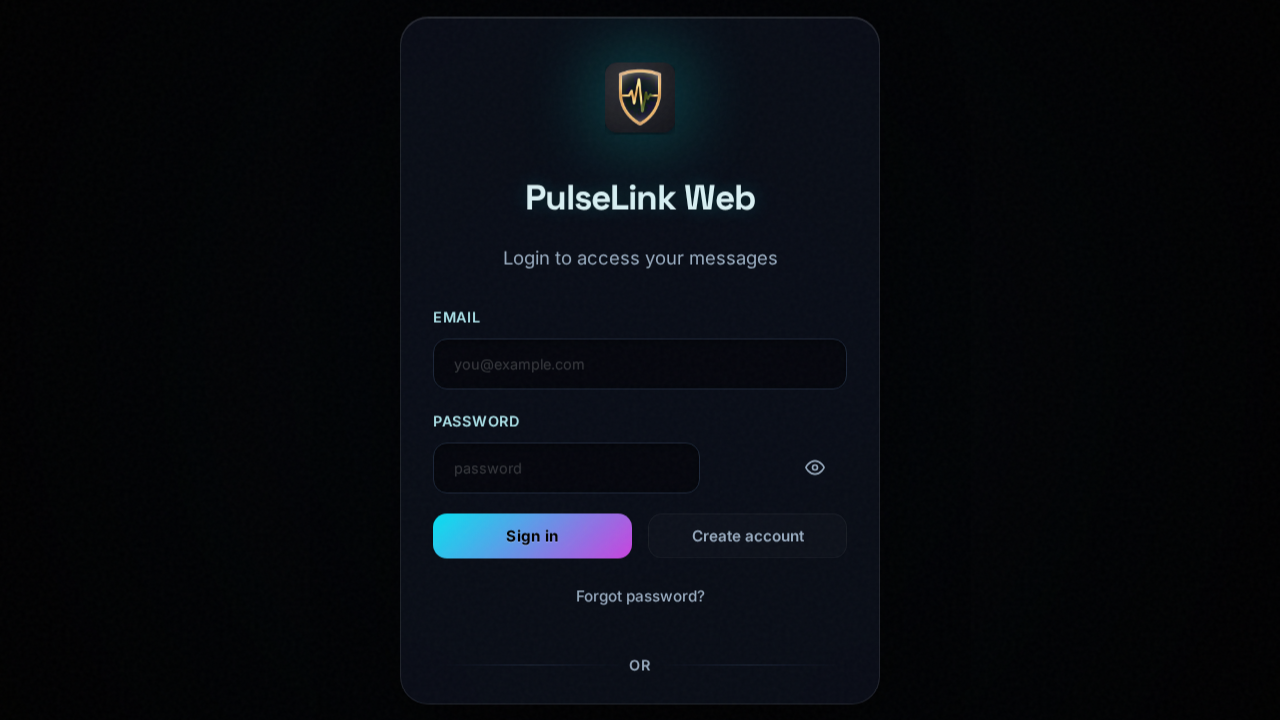
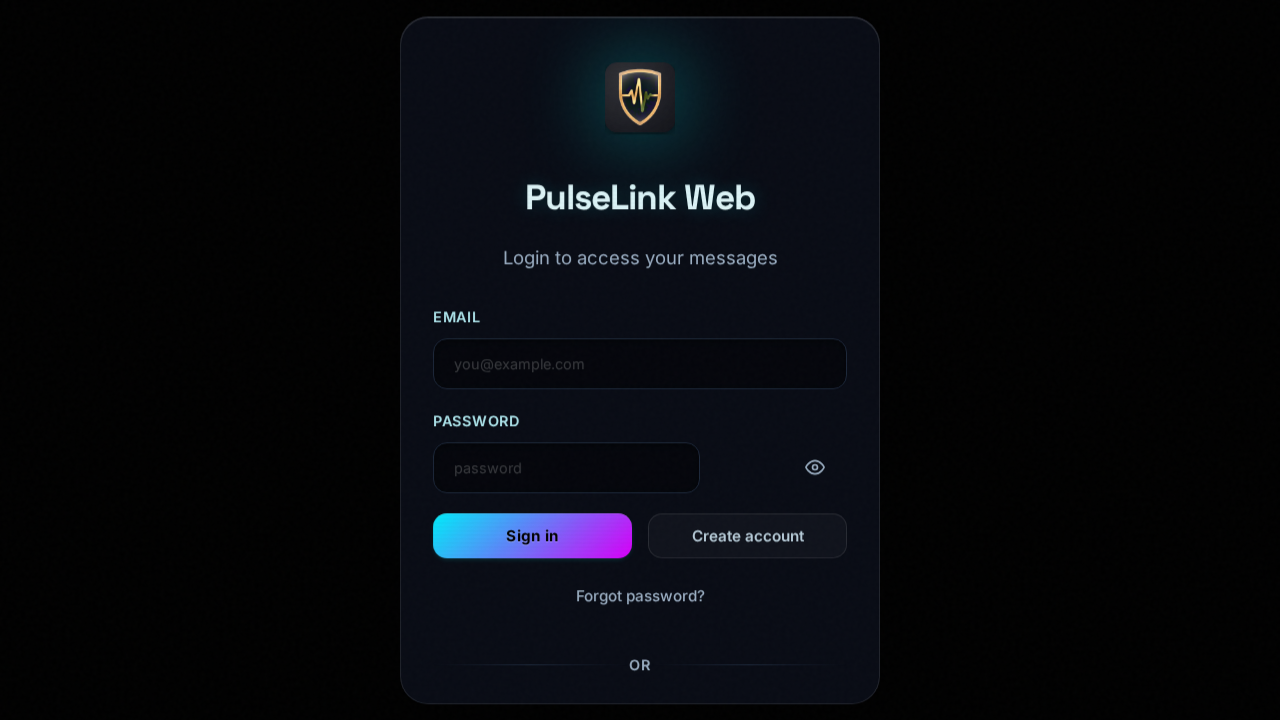
feat: implement Future Deep V11 UI refresh

Changed region(s): [[0.375, 0.7028, 0.5, 0.7944], [0.5625, 0.7333, 0.625, 0.7639]]

diff --git a/web/tests/full_verification.spec.js b/web/tests/full_verification.spec.js
@@ -20,7 +20,7 @@ test.describe('Full Feature Verification', () => {
       'RingerSong',
       'Emergency Map',
       'Theme Gallery',
-      'Extensions'
+      'Features'
     ];
 
     for (const title of cardTitles) {
@@ -71,20 +71,20 @@ test.describe('Full Feature Verification', () => {
   test('should navigate to Themes and verify gallery', async ({ page }) => {
     await page.locator('.home-card h3', { hasText: 'Theme Gallery' }).click();
     await expect(page.getByRole('heading', { name: 'Theme Gallery' })).toBeVisible();
-    await expect(page.getByText('Future Hologram')).toBeVisible();
+    await expect(page.getByText('Future Deep V11')).toBeVisible();
   });
 
-  test('should navigate to Extensions and verify list', async ({ page }) => {
+  test('should navigate to Features and verify list', async ({ page }) => {
     // Target the card in the grid specifically
-    const btn = page.locator('.home-grid .home-card').filter({ hasText: 'Extensions' }).first();
+    const btn = page.locator('.home-grid .home-card').filter({ hasText: 'Features' }).first();
 
     if (await btn.isDisabled()) {
-        console.log('Extensions button is disabled in UI.');
+        console.log('Features button is disabled in UI.');
         return;
     }
 
     await btn.click();
-    await expect(page.getByRole('heading', { name: 'Extensions', exact: true })).toBeVisible();
+    await expect(page.getByRole('heading', { name: 'Features', exact: true })).toBeVisible();
     await expect(page.getByText('Beacon Inbox')).toBeVisible();
     await expect(page.getByText('Firebase Relay')).toBeVisible();
   });

diff --git a/web/src/index.css b/web/src/index.css
@@ -90,13 +90,13 @@
   --glass-bg: rgba(0, 0, 0, 0.85);
   --glass-border: rgba(255, 255, 255, 0.12);
   --glass-highlight: rgba(255, 255, 255, 0.15);
-  --glass-blur: 50px; /* Increased blur */
+  --glass-blur: 60px; /* Increased blur */
 
   /* Shadows */
   --shadow-sm: 0 4px 6px -1px rgba(0, 0, 0, 0.6);
   --shadow: 0 24px 48px -12px rgba(0, 0, 0, 0.9);
   --shadow-lg: 0 32px 64px -12px rgba(0, 0, 0, 0.95);
-  --shadow-glow: 0 0 40px var(--accent-glow);
+  --shadow-glow: 0 0 50px var(--accent-glow);
   --shadow-neon: 0 0 15px var(--accent-glow), 0 0 30px var(--accent-dim);
 
   /* Typography */
